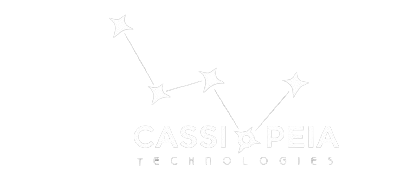
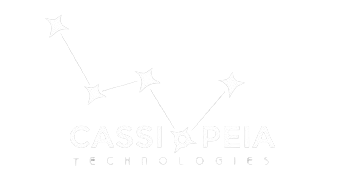
height

diff --git a/app/components/Navbar.jsx b/app/components/Navbar.jsx
@@ -24,9 +24,9 @@ const Navbar = () => {
 
   return (
     <nav className="fixed mx-auto shadow-xls top-0 left-0 right-0 z-10 bg-transparent bg-opacity-100">
-      <div className="flex left-0 right-0 container lg:py-4 flex-wrap items-center justify-between mx-auto px-4 py-2">
+      <div className="flex left-0 right-0 container lg:py-4 flex-wrap items-center justify-between mx-auto px-4 py-2 pl-0">
      <Link href='/' className="flex items-start space-x-2 text-1xl md:text-3xl text-black font-semibold">
-     <img src="/white.png" alt="Cassio Logo" width="250" height="70" />
+     <img src="/white.png" alt="Cassio Logo" width="200" height="10" className="pl-0"/>
           {/* <span>Living Word</span> */}
         </Link>
         <div className="mobile-menu block md:hidden">

diff --git a/app/components/Footer.jsx b/app/components/Footer.jsx
@@ -6,7 +6,7 @@ const Footer = () => {
     <footer className="footer text-black mt-0">
       <div className="container p-4 sm:p-12 flex flex-col sm:flex-row justify-between items-center">
         {/* Set width and height for the image */}
-        <img src="/white.png" alt="Cassio Logo" width="250" height="70" />
+        <img src="/white.png" alt="Cassio Logo" width="200" height="50" />
         <p className="text-white">@2024 Cassiopeia Technologies.All rights reserved.</p>
       </div>
     </footer>
